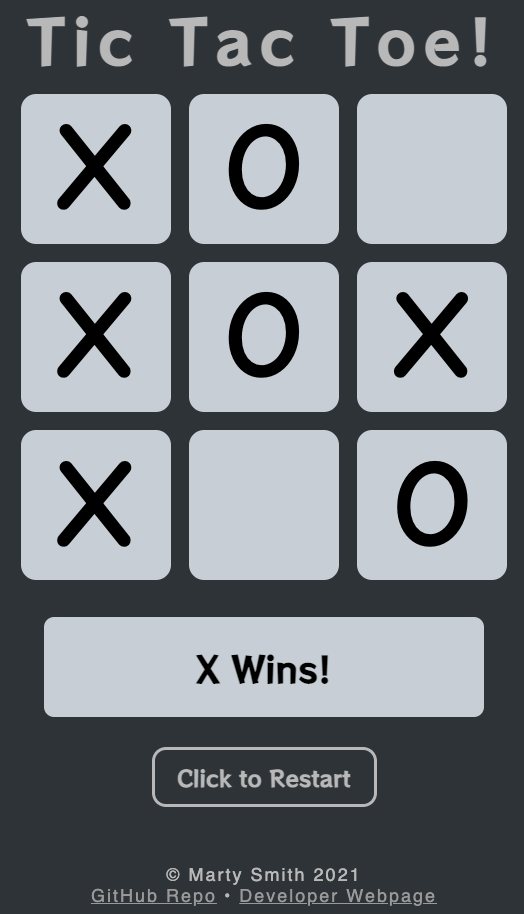
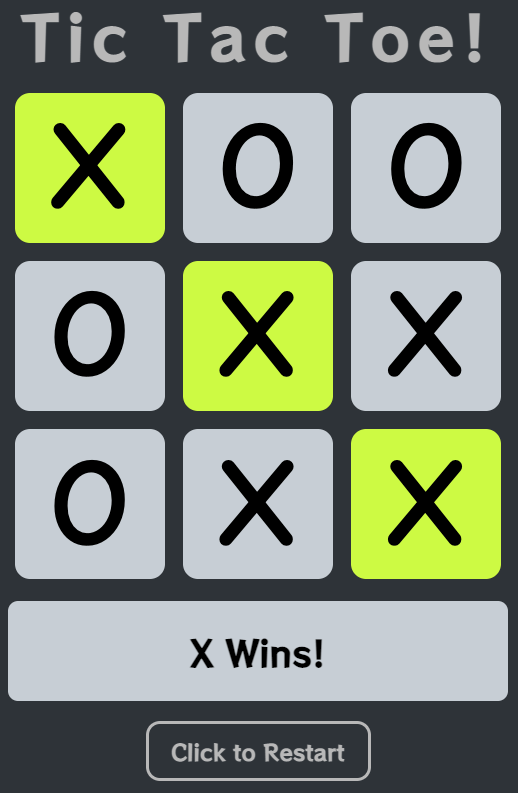
update images in README.md

diff --git a/scripts.js b/scripts.js
@@ -18,11 +18,9 @@ function renderMain() {
                             <main id='main'>
                                 <section id='game-board'></section>
                                 <section id='outcome'>Player X Goes First!<br>Click a square!</section>
-                                <section id='restart-box' onclick='resetGame()'>
-                                    <h2>Click to Restart</h2>
-                                </section>
+                                <section id='restart-box' onclick='resetGame()'><h2>Click to Restart</h2></section>
                             </main>
-                            <footer id='footer'>
+                            <footer>
                                 <div>© Marty Smith 2021</div>
                                 <div>
                                     <a href='https://github.com/mhsmith321/GA-tic-tac-toe' target='_blank' class='footer-link'>GitHub Repo</a>  •
@@ -61,6 +59,7 @@ function resetGame() {
     initialize();
 }
 /******* END: EVENT LISTENERS *******/
+
 
 /******* START: STRUCTURAL FUNCTIONS *******/
 function processTurn(player, clickedBox, clickedBoxId, outcomeBox) {

diff --git a/index.html b/index.html
@@ -8,8 +8,8 @@
     <link rel="preconnect" href="https://fonts.gstatic.com">
     <link href="https://fonts.googleapis.com/css2?family=Comic+Neue:wght@700&display=swap" rel="stylesheet">
     <link rel="preconnect" href="https://fonts.gstatic.com">
-    <link rel="icon" href="/images/favicons/favicon.ico" type="image/x-icon" />
-    <link rel="manifest" href="/manifest.json" />
+    <link rel="icon" href="images/favicons/favicon.ico" type="image/x-icon" />
+    <link rel="manifest" href="manifest.json" />
     <link href="https://fonts.googleapis.com/css2?family=RocknRoll+One&display=swap" rel="stylesheet">
     <script defer src='./scripts.js'></script>
     <title>Tic Tac Toe</title>

diff --git a/README.md b/README.md
@@ -33,7 +33,7 @@ At any point during or after play, players may click the marked reset box to sta
 
 # Version Notes
 
-The version **1.1.7.2** of this app is currently uploaded and live.  In cases where I update the README without any updates to the website itself I do not update the version number or use branches for my work.  Each version number will lack a commit number until the next version is uploaded.  The current commit number is always added retroactively.  In general, for version number format X.Y.Z:
+The version **1.1.7.3** of this app is currently uploaded and live.  In cases where I update the README without any updates to the website itself I do not update the version number or use branches for my work.  Each version number will lack a commit number until the next version is uploaded.  The current commit number is always added retroactively.  In general, for version number format X.Y.Z:
 * X: increases in this number represent a complete overhaul of some section of the website, source code, or UI
 * Y: increases in this number represent a major functional change/aesthetic change or addition to the app
 * Z: increases in this number represent changes that are relatively minor but still warrant a new commit
@@ -107,9 +107,12 @@ Versions prior to 1.0.0 are pre-deployment and will have varying levels of funct
 #### v 1.1.7.1 | 31 May 2021 | commit 801b97827fec45196e5965f269b3d21d8ce6d1fe
 * Removed dead code inadvertently left commented-out.
 
-#### v 1.1.7.2 | 31 May 2021 | commit TBD | Current Version
+#### v 1.1.7.2 | 31 May 2021 | commit f5fd43bcde768708b12d39f7bb7b20306b7a6819
 * Relocate `function resetGame()` from *Structural Functions* to *Event Listeners* section of code.
 * Add comments to `scripts.js` file to better show code organization.
+
+#### 1.1.7.3 | 01 June 2021 | commit TBD | Current Version
+* Updated `README.md` screenshot for game victory with new highlighting on winning squares.
 
 [Back to Top](#top)
 <a id='tech-framework'></a>
